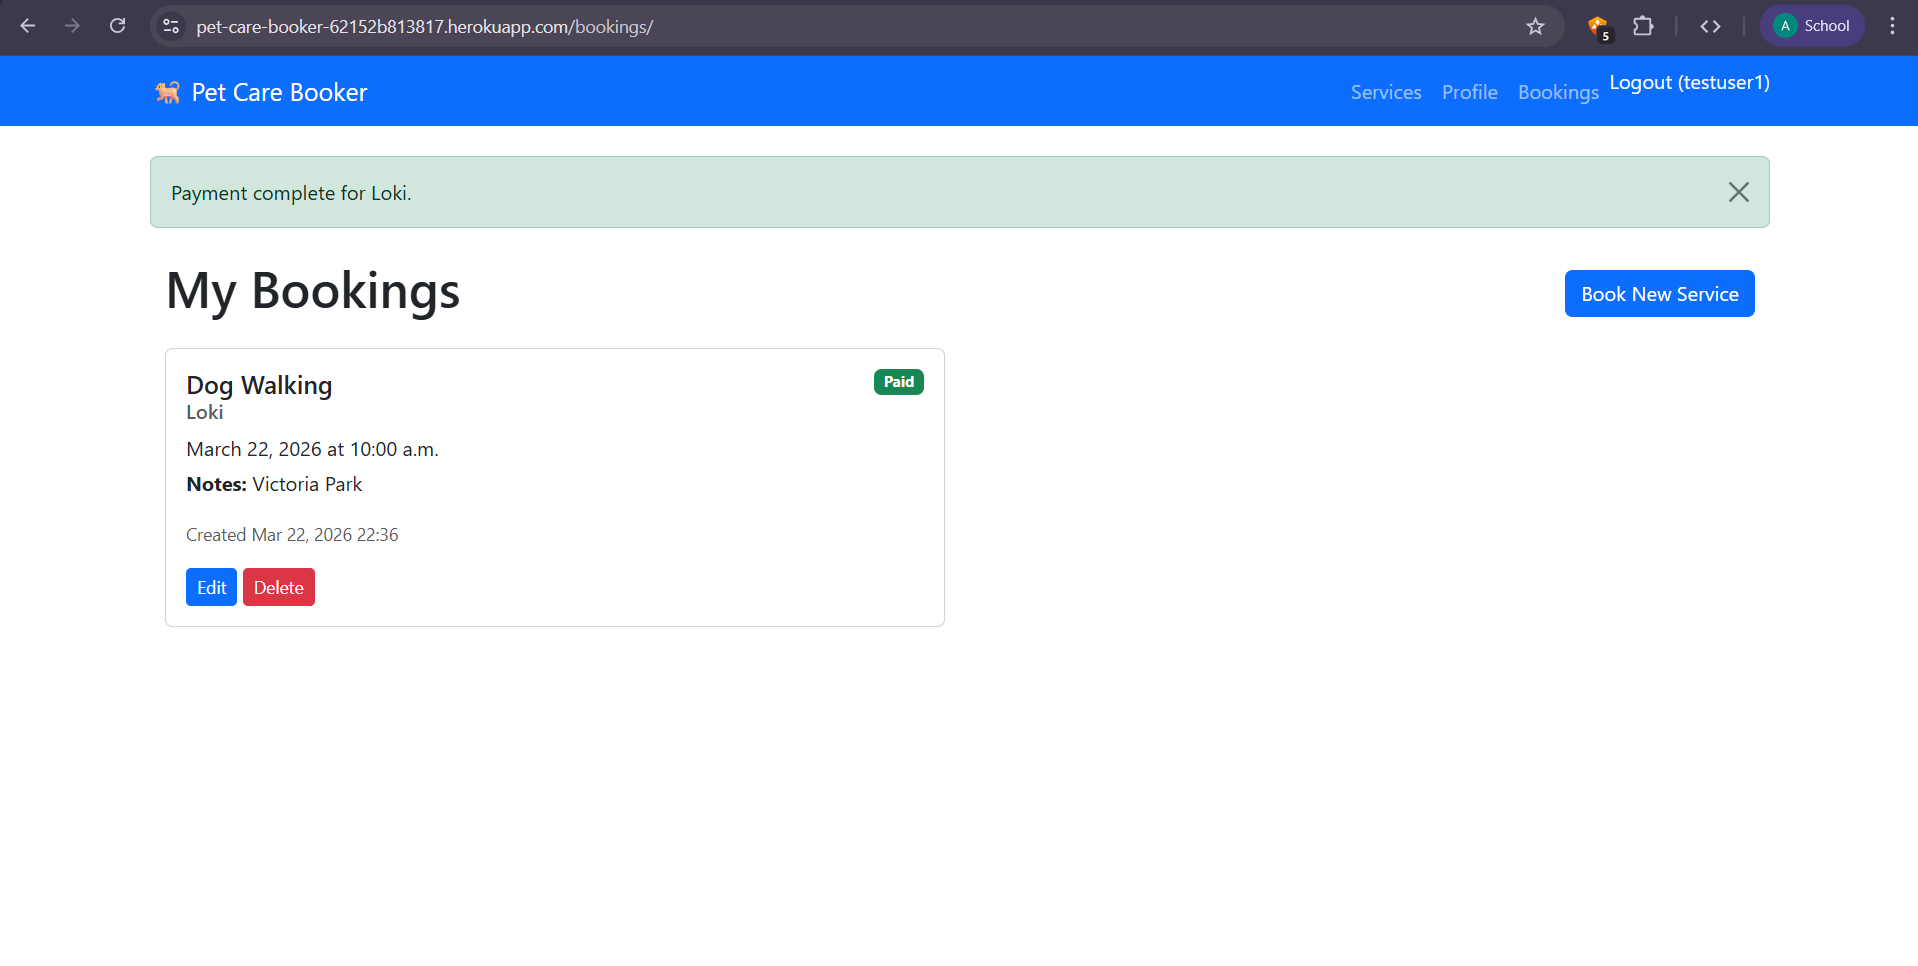
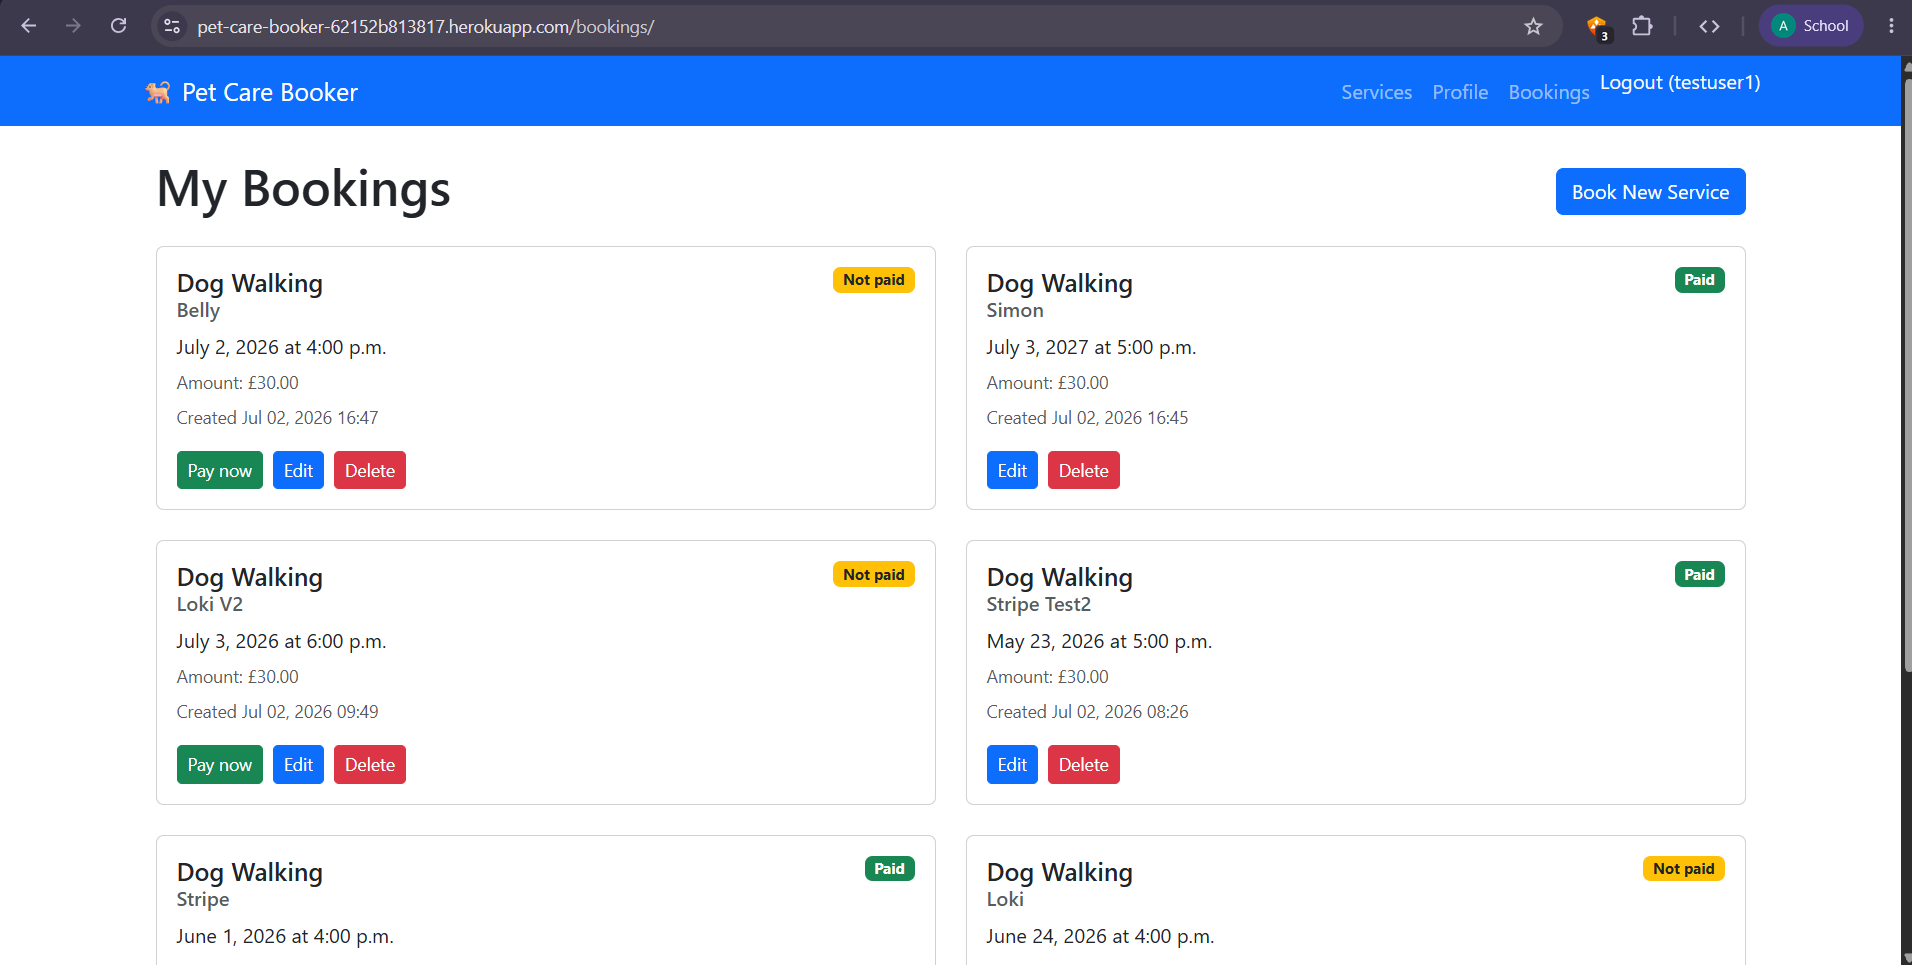
Prepopulate booking form for existing unpaid bookings

diff --git a/bookings/views.py b/bookings/views.py
@@ -16,11 +16,6 @@ class BookingView(LoginRequiredMixin, FormView):
     login_url = "login"
     redirect_field_name = "next"
 
-    def get_form_kwargs(self):
-        kwargs = super().get_form_kwargs()
-        kwargs["user"] = self.request.user
-        return kwargs
-
     def get_booking_from_query(self):
         booking_id = self.request.GET.get("booking_id")
         if not booking_id:
@@ -30,6 +25,16 @@ class BookingView(LoginRequiredMixin, FormView):
             user=self.request.user,
         ).first()
 
+    def get_form_kwargs(self):
+        kwargs = super().get_form_kwargs()
+        kwargs["user"] = self.request.user
+
+        booking = self.get_booking_from_query()
+        if booking:
+            kwargs["instance"] = booking
+
+        return kwargs
+
     def get_context_data(self, **kwargs):
         context = super().get_context_data(**kwargs)
         context["STRIPE_PUBLIC_KEY"] = getattr(settings, "STRIPE_PUBLISHABLE_KEY", "")
@@ -37,10 +42,18 @@ class BookingView(LoginRequiredMixin, FormView):
         return context
 
     def form_valid(self, form):
+        existing_booking = self.get_booking_from_query()
+        is_update = existing_booking is not None
+
         booking = form.save(commit=False)
         booking.user = self.request.user
         booking.save()
-        messages.success(self.request, f"Booking created for {booking.pet_name}!")
+
+        if is_update:
+            messages.success(self.request, f"Booking updated for {booking.pet_name}!")
+        else:
+            messages.success(self.request, f"Booking created for {booking.pet_name}!")
+
         book_url = reverse("book")
         return redirect(f"{book_url}?booking_id={booking.id}")
 